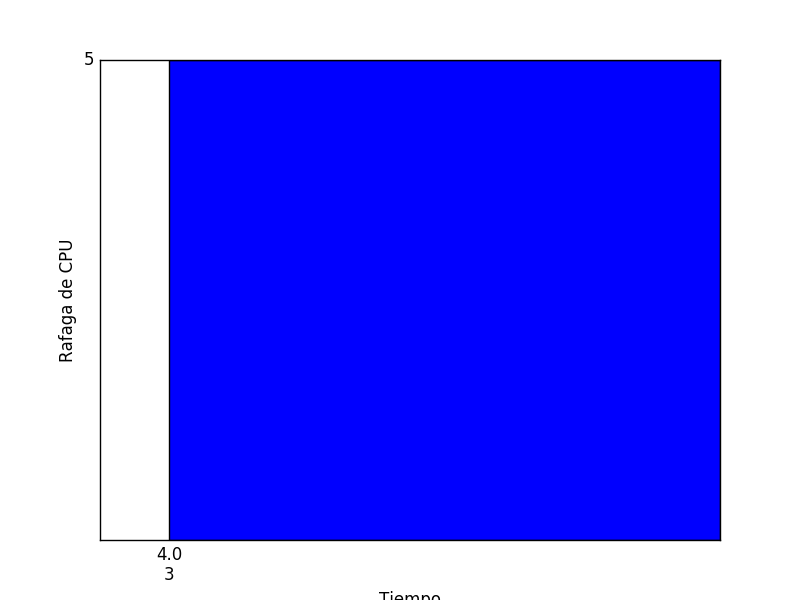
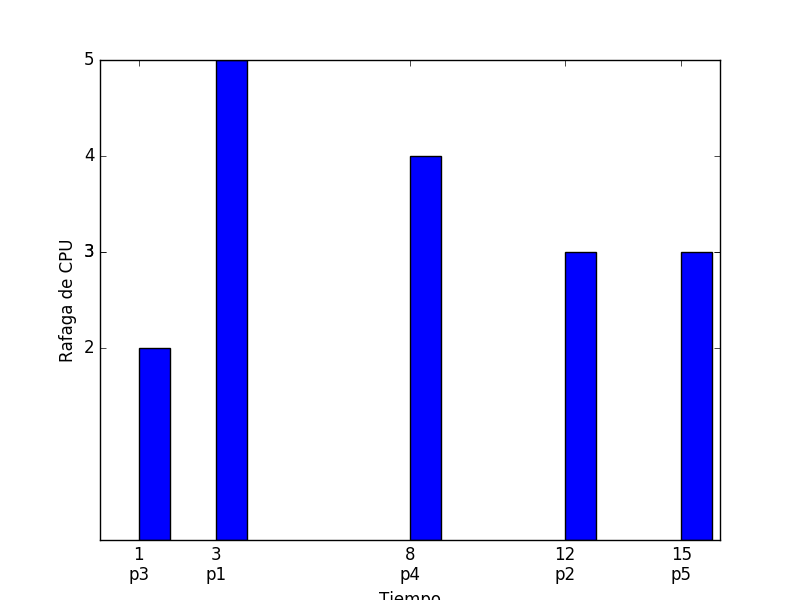
imagen

diff --git a/templates/resultados.html b/templates/resultados.html
@@ -21,26 +21,26 @@
     {% endfor %}
     </tr>
     <tr>
-     <td>RCPU</td>
+     <td><b>RCPU</b></td>
     {% for i in rafaga_cpu %}
        <td>{{i}}</td>
     {% endfor %}
     </tr>
     <tr>
-     <td>TLL</td>
+     <td><b>TLL</b></td>
     {% for i in tiempo_llegada %}
        <td>{{i}}</td>
     {% endfor %}
     </tr>
     <tr>
-     <td>TE</td>
+     <td><b>TE</b></td>
     {% for i in tiempo_espera %}
        <td>{{i}}</td>
     {% endfor %}
     </tr>
     
     <tr>
-     <td>TR</td>
+     <td><b>TR</b></td>
     {% for i in tiempo_retorno %}
        <td>{{i}}</td>
     {% endfor %}

diff --git a/templates/index.html b/templates/index.html
@@ -19,6 +19,12 @@
 </dl>
 
 <form class="form-horizontal" method="POST">{% csrf_token %}
+  {% if  error %}  
+  <div class="form-group has-error has-feedback">
+    <label class="control-label">{{error}}</label>
+  </div>
+  {% endif %}
+
   <div class="form-group">
     <label class="col-sm-2 control-label">Procesos: </label>
     <div class="col-sm-10">

diff --git a/app/views.py b/app/views.py
@@ -1,6 +1,6 @@
+# -*- coding: utf-8 -*-
 from django.shortcuts import render
 import os
-from time import sleep
 
 # Create your views here.
 #from __future__ import division
@@ -36,10 +36,19 @@ def index(request):
         rafaga_cpu = rafaga_cpu.split(',')
 
         try:
+            if len(procesos)==len(tiempo_llegada) and len(tiempo_llegada)==len(rafaga_cpu):
+                pass
+            else:
+                raise 
+        except Exception, e:
+            return render(request, 'index.html',{'error':'Lista de Datos de diferente tamaño'})
+        
+
+        try:
             tiempo_llegada = map(float, tiempo_llegada)
             rafaga_cpu = map(float, rafaga_cpu)
         except Exception, e:
-            return render(request, 'index.html')
+            return render(request, 'index.html',{'error':'Ingreso Datos no numéricos'})
   
         
         
@@ -96,7 +105,7 @@ def index(request):
         aux_x = []
         for i in range(len(x)):
 
-            aux_x.append(str(x[i])+"\n"+str(procesos[i]))
+            aux_x.append(str(int(x[i]))+"\n"+str(procesos[i]))
         
         print aux_x
         # Barras
@@ -108,8 +117,8 @@ def index(request):
         plt.savefig(os.path.join(BASE_DIR,'static/myfig'))
         plt.close()
    
-        return render(request, 'resultados.html',{'procesos':procesos, 'rafaga_cpu':rafaga_cpu,'tiempo_llegada':tiempo_llegada,
-            'tiempo_espera':tiempo_espera,'tiempo_retorno':tiempo_retorno,'ttl':ttl,'tr':tr})
+        return render(request, 'resultados.html',{'procesos':procesos, 'rafaga_cpu':map(int,rafaga_cpu),'tiempo_llegada':map(int,tiempo_llegada),
+            'tiempo_espera':map(int,tiempo_espera),'tiempo_retorno':map(int,tiempo_retorno),'ttl':ttl,'tr':tr})
     else:
         return render(request, 'index.html')
 
